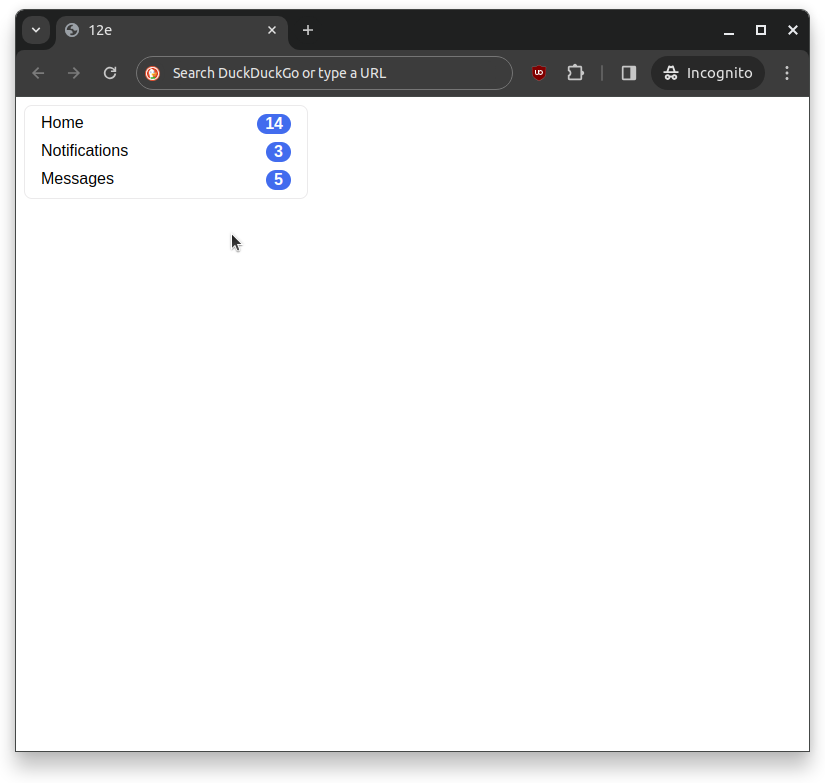
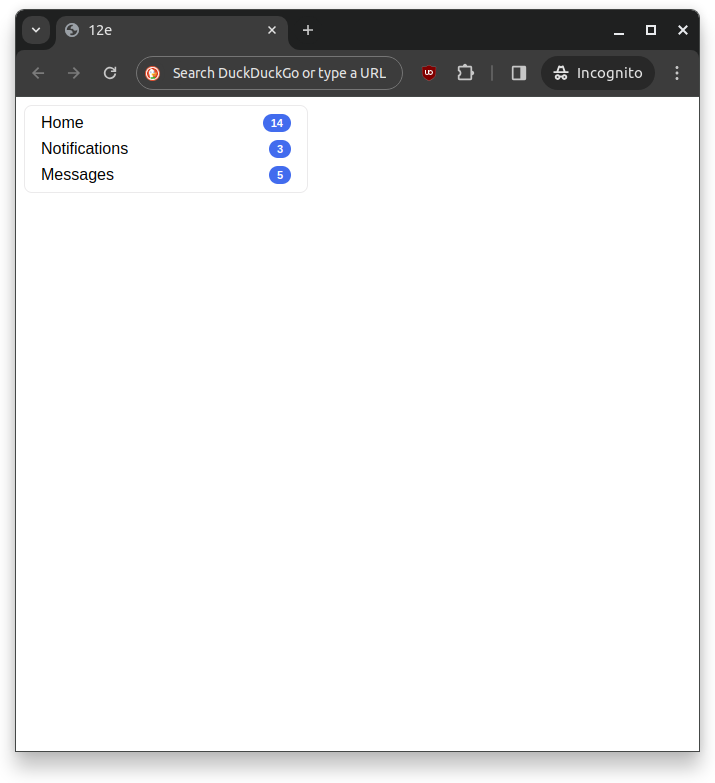
fix: 12e
center the position of the counter

diff --git a/12e/style.css b/12e/style.css
@@ -1,3 +1,9 @@
+p {
+    font-family: Arial;
+    margin-top: 0;
+    margin-bottom: 0;
+}
+
 .super-container {
     border: 1px solid #EBEAEB;
     width: 250px;
@@ -24,11 +30,10 @@
     font-weight: bold;
     padding: 1px 8px;
     border-radius: 10px;
+    font-size: 11px;
 
-}
-
-p {
-    font-family: Arial;
-    margin-top: 0;
-    margin-bottom: 0;
+    display: flex;
+    flex-direction: row;
+    justify-content: center;
+    align-items: center;
 }
